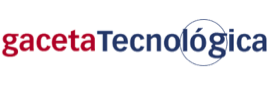
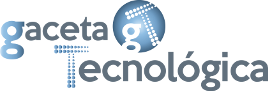
feat(gaceta): actualiza logotipo gaceta tecnológica

diff --git a/index.html b/index.html
@@ -266,7 +266,7 @@
                         </li>
                         <li class="item">
                             <div class="organizers-box">
-                                <a href="http://www.gacetatecnologica.com/"><img src="img/organizacion/organizer-5.png" class="img-responsive" width="268" height="85" alt="Gaceta Tecnológica"></a>
+                                <a href="http://www.gacetatecnologica.com/"><img src="img/organizacion/organizer-5.png" class="img-responsive" width="268" height="91" alt="Gaceta Tecnológica"></a>
                             </div>
                         </li>
                     </ul>
@@ -379,7 +379,7 @@
                     
                       <li>
                         <div class="box">
-                          <a href="http://www.gacetatecnologica.com/"><img src="img/sponsors/gaceta.png" class="img-responsive" width="180" height="57" alt="Gaceta Tecnológica"></a>
+                          <a href="http://www.gacetatecnologica.com/"><img src="img/sponsors/gaceta.png" class="img-responsive" width="180" height="61" alt="Gaceta Tecnológica"></a>
                         </div>
                       </li>
                       <li>
